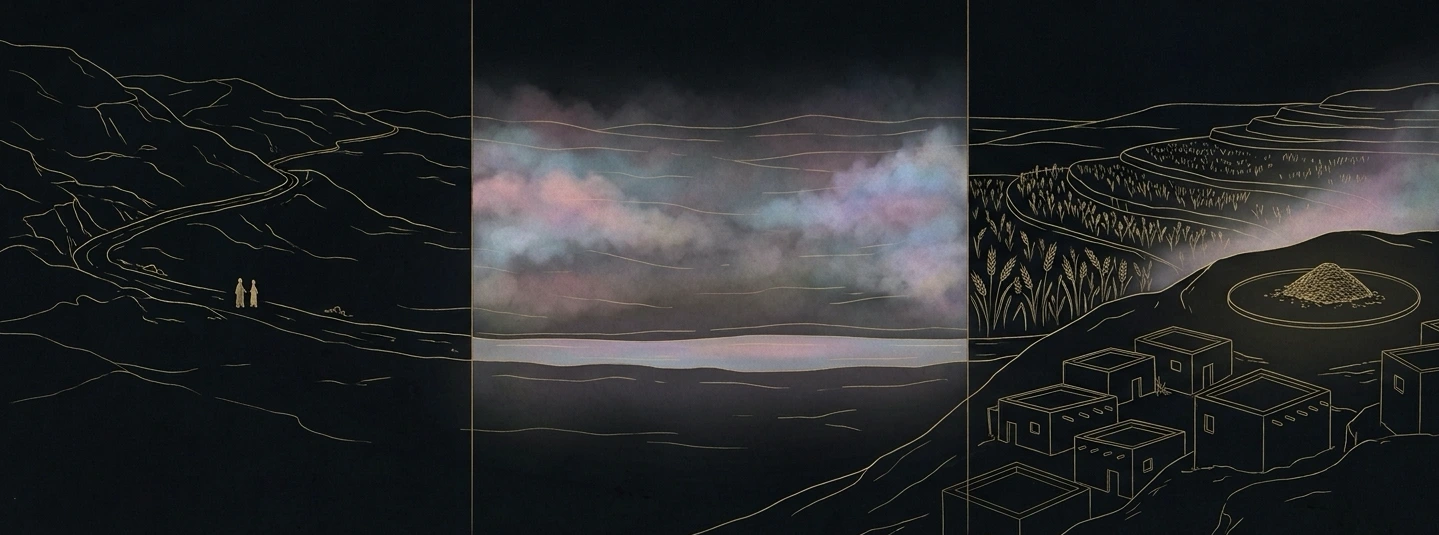
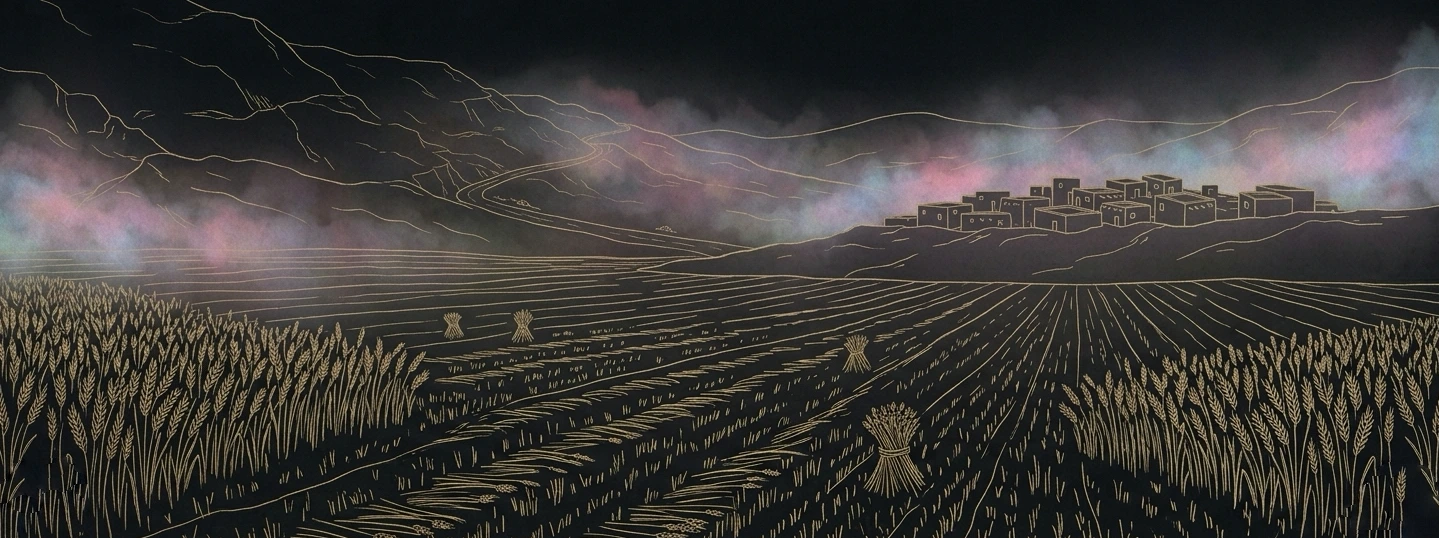
Give Ruth its hero, by swapping the two slots
Publishing with no hero left the book visibly unfinished beside Genesis and
Exodus, so the crop was checked instead of argued about. The hero container is
688/384 with object-cover, which on the triptych shows x=240 to 1198 of 1439:
both dividers in frame, the washed-out centre panel framed between them, the
two figures cut in half at the left edge, and the threshing floor cropped out.

A situation banner renders at natural aspect with no crop, so a triptych reads
there as a deliberate three-panel illustration, and its subject, Moab to the
valley to Bethlehem, is what that panel is about.

So the two swapped and the files were renamed to their roles. ruth-intro.webp
is now the continuous barley panorama and the book hero, and the uncut standing
corners survive its crop. ruth-moab.webp is the triptych, shown whole in
movement 1. Nothing was regenerated.

Every image slot in every published book is now filled.

Claude-Session: https://claude.ai/code/session_017DXEzuhkjsWpqG6ev8aGuW

diff --git a/content/index.ts b/content/index.ts
@@ -128,15 +128,21 @@ export const BOOKS: BookEntry[] = [
     capstone: EXODUS_CAPSTONE,
     published: true,
   },
-  // Ruth, book three, published. Four chapters across two movements. No hero image: the generated
-  // one came back as a ruled triptych rather than a continuous panorama and is held pending a
-  // re-run, so the book page falls back to its text header. See .scratch/ruth/issues/07-images.md.
+  // Ruth, book three, published. Four chapters across two movements.
+  //
+  // The hero and the movement 1 banner are swapped from what their prompts intended. The image
+  // generated as the hero came back a ruled triptych, which the full-bleed container crops badly:
+  // it frames the washed-out centre panel between two dividers and cuts the figures in half. It
+  // reads correctly at natural aspect inside a situation panel, and its subject (Moab, the valley,
+  // Bethlehem) is what that panel is about, so it went there as ruth-moab.webp. The continuous
+  // barley panorama became the hero. See .scratch/ruth/issues/07-images.md.
   {
     id: "ruth",
     title: "Ruth",
     subtitle: "Two movements: coming back empty, and the redeemer.",
     blurb:
       "A woman comes home with nothing, and a stranger will not leave her.",
+    heroImage: "/images/ruth-intro.webp",
     readings: RUTH,
     movements: [EMPTY_MOVEMENT, THE_REDEEMER_MOVEMENT],
     composition: RUTH_INTRO,

diff --git a/content/ruth.ts b/content/ruth.ts
@@ -430,7 +430,7 @@ export const EMPTY_MOVEMENT: Movement = {
   situation: {
     kicker: "The ground beneath the road",
     title: "The situation",
-    image: "/images/ruth-empty.webp",
+    image: "/images/ruth-moab.webp",
     paragraphs: [
       "Moab sits across the Dead Sea from Bethlehem, near enough to walk to and foreign enough to matter. It is the neighbour Israel's texts treat worst: Numbers blames Moabite women for leading Israel into worship of another god, and Deuteronomy bars Moabites from the assembly of the LORD to the tenth generation. Going there to eat during a famine is what people did, and the book reports it without a word of comment.",
       "A widow's position was a matter of property law rather than sympathy. Households held land, land passed through men, and a woman with no husband and no sons had no standing and no income of her own. When Naomi tells her daughters-in-law that she has nothing to offer them, she is not being dramatic. She is describing the arrangement accurately. What was left to a woman in that position was a household willing to take her in, or the leftovers of somebody else's harvest.",

diff --git a/scripts/build-ruth.ts b/scripts/build-ruth.ts
@@ -384,7 +384,7 @@ export const EMPTY_MOVEMENT: Movement = {
   situation: {
     kicker: "The ground beneath the road",
     title: "The situation",
-    image: "/images/ruth-empty.webp",
+    image: "/images/ruth-moab.webp",
     paragraphs: [
       "Moab sits across the Dead Sea from Bethlehem, near enough to walk to and foreign enough to matter. It is the neighbour Israel's texts treat worst: Numbers blames Moabite women for leading Israel into worship of another god, and Deuteronomy bars Moabites from the assembly of the LORD to the tenth generation. Going there to eat during a famine is what people did, and the book reports it without a word of comment.",
       "A widow's position was a matter of property law rather than sympathy. Households held land, land passed through men, and a woman with no husband and no sons had no standing and no income of her own. When Naomi tells her daughters-in-law that she has nothing to offer them, she is not being dramatic. She is describing the arrangement accurately. What was left to a woman in that position was a household willing to take her in, or the leftovers of somebody else's harvest.",

diff --git a/.scratch/ruth/issues/07-images.md b/.scratch/ruth/issues/07-images.md
@@ -12,7 +12,7 @@ tool set. The spec, the prompts, the dimensions and the encode commands are writ
 
 **Blocked by:** 06 — Two capstones, and the book's own ending.
 
-**Status:** needs-info
+**Status:** done
 
 - [x] Style spec written from the shipped Genesis and Exodus files rather than from description
 - [x] Prompts written for all three slots
@@ -46,3 +46,30 @@ in Genesis or Exodus carries pastels. The banner is good enough to ship with it;
 **All eight compressed** at quality 92, measuring 45.7 to 46.8 dB PSNR, comparable to the 46.3 to
 47.7 dB the Exodus set measured. 8.1 MB becomes 2.1 MB across the set, a 75 percent reduction, with
 dimensions unchanged.
+
+## Comments, second pass
+
+**Resolved by swapping the two slots rather than by re-generating anything.**
+
+Publishing Ruth with no hero left it visibly unfinished beside Genesis and Exodus, so the crop was
+checked rather than argued about. The hero container is 688/384 and uses object-cover, which on the
+triptych shows x=240 to 1198 of 1439: both dividers visible, the washed-out centre panel framed
+between them, the two figures cut in half at the left edge, and the threshing floor cropped out
+entirely. It was not a matter of taste. It genuinely did not work in that slot.
+
+The situation-panel banner, by contrast, renders at natural aspect with no crop at all, so a
+triptych reads there as a deliberate three-panel illustration. And its subject, Moab to the valley
+to Bethlehem, is precisely what movement 1's situation panel is about.
+
+So the two swapped, and the files were renamed to match their roles:
+
+- `ruth-intro.webp` is now the continuous barley panorama, the book hero. It crops well, and the
+  uncut standing corners survive at both lower edges.
+- `ruth-moab.webp` is the triptych, the movement 1 banner, shown whole.
+- `ruth-redeemer.webp` is unchanged.
+
+Every image slot in every published book is now filled. No re-run needed for Ruth.
+
+**Still open for Mark:** `mark-intro.webp` has the same triptych defect and the same container will
+crop it the same way. The fixed prompt is in `.scratch/mark/images.md`. Mark's four movement banners
+are all continuous, so only the hero needs re-running.
